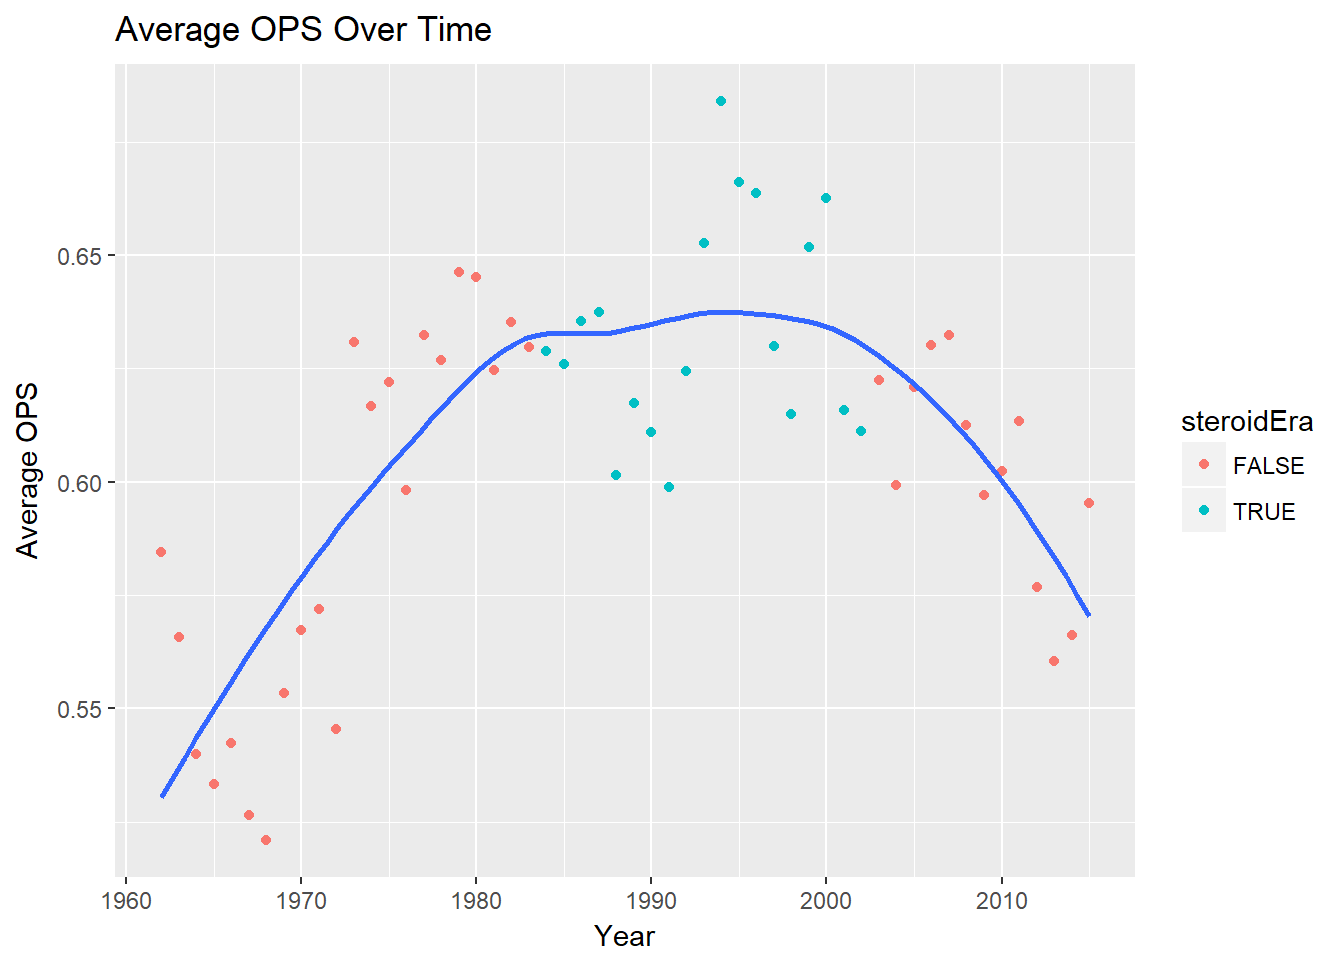
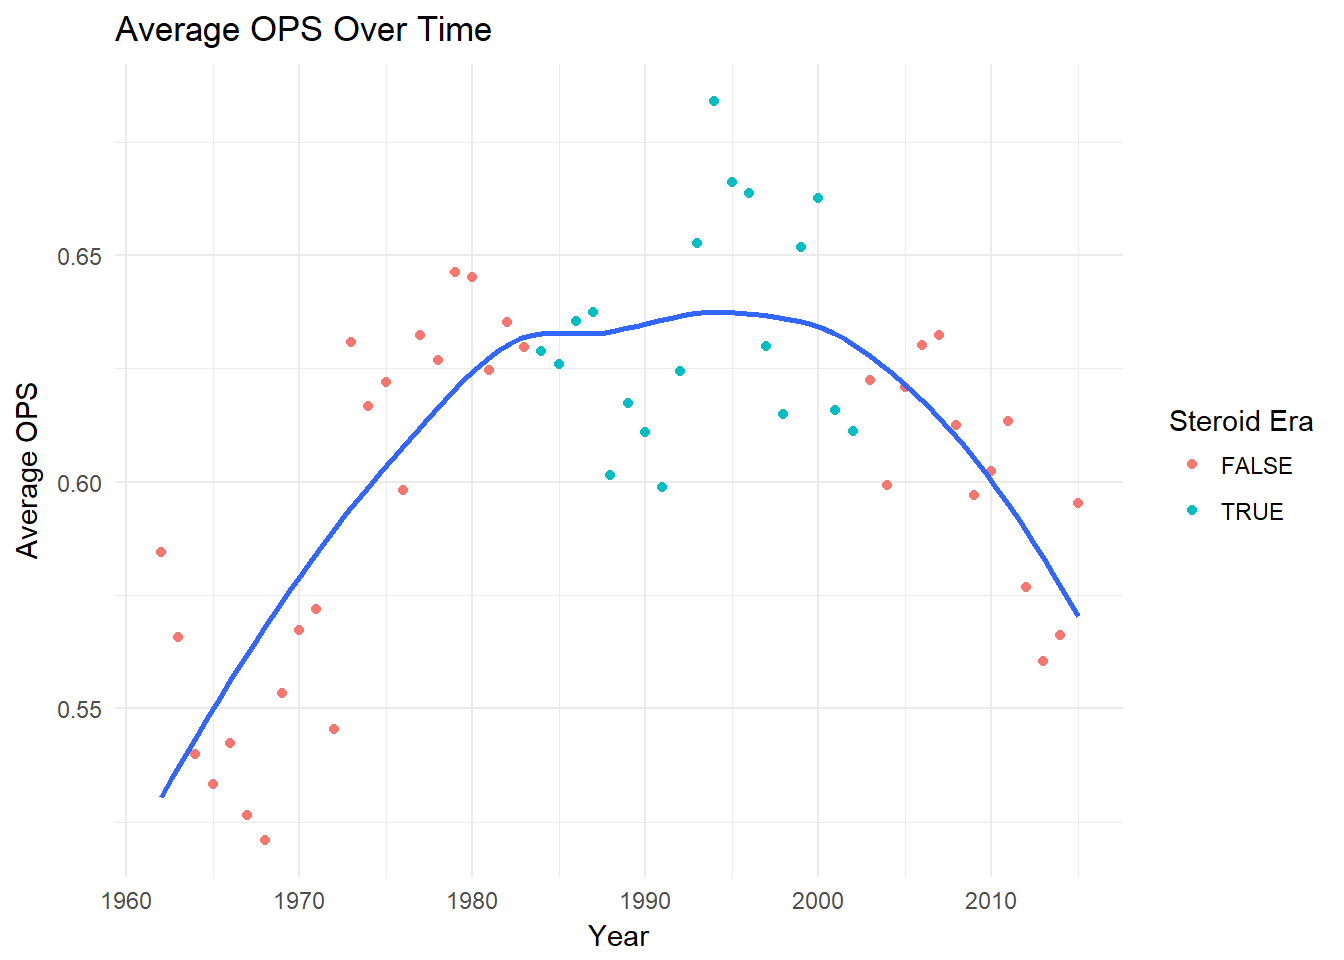
hid the third graph, changed the legend titles

diff --git a/analysis.html b/analysis.html
@@ -206,7 +206,7 @@ $(document).ready(function () {
 <p><span class="math display">\[TB=H+2(X2B)+3(X3B)+4(HR)\]</span> <span class="math display">\[ SLG=TB/AB \]</span> <span class="math display">\[OBP=(H+BB+HBP)/(AB +BB+SF+HBP) \]</span> <span class="math display">\[OPS=SLG+OBP \]</span></p>
 <pre class="r"><code>table = batting2 %&gt;% group_by(yearID,steroidEra) %&gt;% summarise(avgOPS = mean(OPS))</code></pre>
 <p>Next, creating a table with variables denotating: specific year, specifying if year is in steroid era (or not), and average OPS.</p>
-<pre class="r"><code>ggplot(table, aes(x =yearID, y = avgOPS)) + geom_point(aes(x =yearID, y = avgOPS ,col=steroidEra)) + geom_smooth(se=FALSE) + ggtitle(&quot;Average OPS Over Time&quot;) + xlab(&quot;Year&quot;) + ylab(&quot;Average OPS&quot;)</code></pre>
+<pre class="r"><code>ggplot(table, aes(x =yearID, y = avgOPS)) + geom_point(aes(x =yearID, y = avgOPS ,col=steroidEra)) + geom_smooth(se=FALSE) + ggtitle(&quot;Average OPS Over Time&quot;) + xlab(&quot;Year&quot;) + ylab(&quot;Average OPS&quot;) + scale_color_discrete(name=&#39;Steroid Era&#39;) + theme_minimal()</code></pre>
 <p><img src="analysis_files/figure-html/unnamed-chunk-4-1.png" width="672" /></p>
 <div id="we-can-see-that-average-ops-increases-steadily-during-the-60s-and-70s-increasing-moderately-still-through-80s-plateu-around-2000-then-decreases-steadily-after." class="section level3">
 <h3>We can see that average OPS increases steadily during the 60’s and 70’s, increasing moderately still through 80’s, plateu around 2000, then decreases steadily after.</h3>
@@ -215,11 +215,9 @@ $(document).ready(function () {
   mutate(steroidEra = (yearID&gt;1983 &amp; yearID&lt;2003))</code></pre>
 <p>Using filter function on the pitching data to get years from 1961 to current. Then selecting years and ERA, and omitting Na’s. Then using mutate to specific steroid era as years 1983-2003.</p>
 <pre class="r"><code>table2 = pitching2 %&gt;% group_by(yearID,steroidEra) %&gt;% summarise(avgERA = mean(ERA))
-ggplot(table2, aes(x =yearID, y = avgERA)) + geom_point(aes(col = steroidEra)) + geom_smooth(se=FALSE) + ggtitle(&quot;Average ERA Over Time&quot;) + xlab(&quot;Year&quot;) + ylab(&quot;Average ERA&quot;)  </code></pre>
+ggplot(table2, aes(x =yearID, y = avgERA)) + geom_point(aes(col = steroidEra)) + geom_smooth(se=FALSE) + ggtitle(&quot;Average ERA Over Time&quot;) + xlab(&quot;Year&quot;) + ylab(&quot;Average ERA&quot;) + scale_color_discrete(name=&#39;Steroid Era&#39;) + theme_minimal()</code></pre>
 <p><img src="analysis_files/figure-html/unnamed-chunk-6-1.png" width="672" /></p>
 <p>Again, creating a table but with variables denoting: specific year, specifying if year is in steroid era (or not), and average ERA.</p>
-<pre class="r"><code>ggplot(table2, aes(x =yearID, y = avgERA)) + geom_point(aes(col = steroidEra)) + geom_smooth(se=FALSE) + ggtitle(&quot;Average ERA Over Time&quot;) + xlab(&quot;Year&quot;) + ylab(&quot;Average ERA&quot;)  + labs(fill = &quot;Steroid Era&quot;)</code></pre>
-<p><img src="analysis_files/figure-html/unnamed-chunk-7-1.png" width="672" /></p>
 </div>
 <div id="we-can-see-that-average-era-decreases-until-the-1980s-then-increases-drasticly-up-till-the-early-2000s-then-begins-a-steady-decrease." class="section level3">
 <h3>We can see that average ERA decreases until the 1980’s, then increases drasticly up till the early 2000’s, then begins a steady decrease.</h3>
@@ -229,14 +227,6 @@ ggplot(table2, aes(x =yearID, y = avgERA)) + geom_point(aes(col = steroidEra)) +
 <p><em><strong>From the 60’s up till the steroid era, we see an increase in average OPS and decrease in average ERA, signifying that preformance was increasing for both pitchers and hitters.</strong></em></p>
 <p><em><strong>During the steriod era, ERA increase when OPS did, and then both begin to decrease around the end of the steriod era.</strong></em></p>
 <p><em><strong>It appears that steriods did give an advantage to batters over pithers during the steroid era.</strong></em></p>
-<pre class="r"><code>batsal = left_join(batting,salaries, by=&quot;playerID&quot;)
-batsal2 = filter(batsal, batsal$yearID.x &gt; 1985) %&gt;% select(yearID.x,H,X2B,X3B,HR,AB,BB,HBP,SF,salary,teamID.x) %&gt;% na.omit() %&gt;% mutate(TB = H+2*X2B+(3*X3B)+(4*HR)) %&gt;% mutate(SLG = TB/AB) %&gt;% na.omit() %&gt;% mutate(OBP = (H + BB + HBP)/(AB + BB + SF + HBP)) %&gt;% mutate(OPS = SLG + OBP) %&gt;% mutate(steroidEra = (yearID.x&gt;1983 &amp; yearID.x&lt;2003))
-
-ggplot(batsal2, aes(x =OPS, y = log(salary))) + geom_point(aes(x =OPS, y = log(salary), col = steroidEra)) + geom_smooth(se=FALSE)</code></pre>
-<p><img src="analysis_files/figure-html/unnamed-chunk-8-1.png" width="672" /></p>
-</div>
-<div id="the-bottom-line-shows-that-salaries-were-increasing-quicker-when-ops-was-increasing." class="section level3">
-<h3>The bottom line shows that salaries were increasing quicker when OPS was increasing.</h3>
 </div>
 
 
